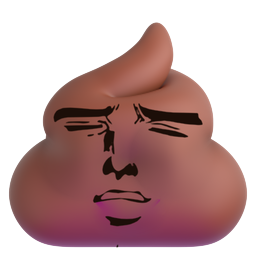
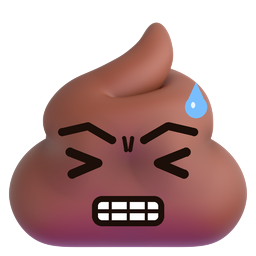
feat: versión para Google Play, borrar cuenta y política de privacidad
- Flavor play sin el actualizador propio ni los permisos de instalar.
- Perfil > Borrar mi cuenta (RPC borrar_mi_cuenta; todo se borra en cascada).
- docs/: política de privacidad y página para borrar la cuenta (GitHub Pages).
- Cara de esfuerzo dibujada desde cero para el mojón de la pregunta secreta.

Changed region(s): [[0.1875, 0.3125, 0.8125, 0.9062]]

diff --git a/docs/privacidad.html b/docs/privacidad.html
@@ -1,0 +1,38 @@
+<!doctype html>
+<html lang="es"><head><meta charset="utf-8"><meta name="viewport" content="width=device-width, initial-scale=1">
+<title>Privacidad · Rey Cagón</title><link rel="stylesheet" href="estilo.css"></head>
+<body><main>
+<h1>Política de privacidad</h1>
+<div class="fecha">Rey Cagón · ahimismito Studios C.A · Última actualización: 20 de octubre de 2026</div>
+
+<p>Rey Cagón es una app de entretenimiento para competir con amigos. No es una app de salud y nada de lo que registras es información médica.</p>
+
+<h2>Qué guardamos</h2>
+<ul>
+<li><strong>Tu correo y tu contraseña</strong>, para entrar a tu cuenta. La contraseña se guarda cifrada.</li>
+<li><strong>Tu perfil</strong>: username, bio, avatar y accesorios.</li>
+<li><strong>Tus registros</strong>: la hora de cada vez que tocas CAGUÉ y, si los eliges, el tipo y la calificación.</li>
+<li><strong>A quién sigues</strong> y quién te sigue.</li>
+<li><strong>Un identificador de notificaciones</strong> de tu teléfono y la versión de la app, para mandarte avisos.</li>
+</ul>
+
+<h2>Quién lo ve</h2>
+<p>Las personas que usan la app ven tu username, tu avatar, tus totales y tu calendario. Las calificaciones solo las ven quienes desbloquearon esa sección. Tu correo no lo ve nadie.</p>
+
+<h2>Con quién lo compartimos</h2>
+<p>Con nadie para publicidad ni para venderlo. Usamos dos servicios para que la app funcione:</p>
+<ul>
+<li><strong>Supabase</strong>, donde están la base de datos y las cuentas.</li>
+<li><strong>Firebase Cloud Messaging</strong> (Google), que entrega las notificaciones.</li>
+</ul>
+<p>La app no usa anuncios, no te rastrea en otras apps y no pide tu ubicación, contactos, cámara ni micrófono.</p>
+
+<h2>Cómo borrar tus datos</h2>
+<p>En la app: <strong>Perfil → Borrar mi cuenta</strong>. Se borran tu cuenta, tu perfil, tus registros, tus follows y tus notificaciones, de inmediato y para siempre. Más detalles en <a href="borrar-cuenta.html">Borrar tu cuenta</a>.</p>
+
+<h2>Menores</h2>
+<p>La app no está dirigida a menores de 13 años.</p>
+
+<h2>Contacto</h2>
+<p>Escríbenos abriendo un reporte en <a href="https://github.com/Fervolts/rey-cagon/issues">github.com/Fervolts/rey-cagon/issues</a>.</p>
+</main></body></html>

diff --git a/lib/perfil.dart b/lib/perfil.dart
@@ -95,6 +95,35 @@ class _PantallaPerfilState extends State<PantallaPerfil> {
     if (mounted) Navigator.of(context).popUntil((r) => r.isFirst);
   }
 
+  /// Borra la cuenta y todo lo suyo (cagadas, follows, teléfonos) después de confirmar.
+  Future<void> _borrarCuenta() async {
+    final seguro = await showDialog<bool>(
+      context: context,
+      builder: (context) => AlertDialog(
+        title: const Text('¿Borrar tu cuenta?'),
+        content: const Text('Se borran tu perfil, todas tus cagadas y tus seguidores. No se puede deshacer.'),
+        actions: [
+          TextButton(onPressed: () => Navigator.pop(context, false), child: const Text('CANCELAR')),
+          FilledButton(
+            style: FilledButton.styleFrom(backgroundColor: const Color(0xFFB3261E), foregroundColor: Colors.white),
+            onPressed: () => Navigator.pop(context, true),
+            child: const Text('BORRAR'),
+          ),
+        ],
+      ),
+    );
+    if (seguro != true) return;
+    try {
+      cancelarRecordatorio().catchError((_) {});
+      limpiarWidget().catchError((_) {});
+      await db.rpc('borrar_mi_cuenta');
+      await db.auth.signOut().catchError((_) {});
+      if (mounted) Navigator.of(context).popUntil((r) => r.isFirst);
+    } catch (e) {
+      _mensaje('No se pudo borrar la cuenta: $e');
+    }
+  }
+
   @override
   Widget build(BuildContext context) {
     final p = _p;
@@ -212,6 +241,12 @@ class _PantallaPerfilState extends State<PantallaPerfil> {
                     ),
                   ),
                 ),
+                if (_esMio)
+                  ListTile(
+                    leading: const Icon(Icons.delete_forever, color: Color(0xFFB3261E)),
+                    title: const Text('Borrar mi cuenta', style: TextStyle(color: Color(0xFFB3261E))),
+                    onTap: _borrarCuenta,
+                  ),
               ],
             ),
     );

diff --git a/docs/borrar-cuenta.html b/docs/borrar-cuenta.html
@@ -1,0 +1,22 @@
+<!doctype html>
+<html lang="es"><head><meta charset="utf-8"><meta name="viewport" content="width=device-width, initial-scale=1">
+<title>Borrar tu cuenta · Rey Cagón</title><link rel="stylesheet" href="estilo.css"></head>
+<body><main>
+<h1>Borrar tu cuenta de Rey Cagón</h1>
+<div class="fecha">ahimismito Studios C.A</div>
+
+<h2>Desde la app</h2>
+<div class="caja">
+<ol>
+<li>Abre Rey Cagón y entra a la pestaña <strong>Perfil</strong>.</li>
+<li>Baja hasta el final y toca <strong>Borrar mi cuenta</strong>.</li>
+<li>Confirma con <strong>Borrar</strong>.</li>
+</ol>
+</div>
+
+<h2>Si ya no tienes la app</h2>
+<p>Abre un reporte en <a href="https://github.com/Fervolts/rey-cagon/issues/new?title=Borrar%20mi%20cuenta">github.com/Fervolts/rey-cagon/issues</a> con tu username (no pongas tu correo ni tu contraseña). Te pediremos confirmar desde la app o el correo de la cuenta y la borramos en menos de 7 días.</p>
+
+<h2>Qué se borra</h2>
+<p>Todo, de inmediato y sin copia: tu cuenta y correo, tu perfil y avatar, todos tus registros y calificaciones, tus follows y los identificadores de notificaciones de tus teléfonos. No guardamos nada después.</p>
+</main></body></html>

diff --git a/docs/estilo.css b/docs/estilo.css
@@ -1,0 +1,10 @@
+:root { --papel: #F7F6F3; --tinta: #171513; --suave: #5C5751; --borde: #DEDBD5; --acento: #FFD60A; }
+* { box-sizing: border-box; }
+body { margin: 0; background: var(--papel); color: var(--tinta); font: 17px/1.6 system-ui, -apple-system, "Segoe UI", Roboto, sans-serif; }
+main { max-width: 720px; margin: 0 auto; padding: 40px 16px 64px; }
+h1 { font-size: 32px; line-height: 1.1; margin: 0 0 8px; }
+h2 { font-size: 20px; margin: 32px 0 8px; border-left: 4px solid var(--acento); padding-left: 10px; }
+p, li { color: var(--suave); }
+a { color: var(--tinta); }
+.fecha { font-size: 14px; color: var(--suave); margin-bottom: 24px; }
+.caja { background: #fff; border: 1px solid var(--borde); border-radius: 2px; padding: 16px 20px; }

diff --git a/lib/actualizar.dart b/lib/actualizar.dart
@@ -13,9 +13,13 @@ const _manifiesto = '$supabaseUrl/storage/v1/object/public/releases/version.json
 var _abierto = false;
 int? _pospuesta;
 
+/// La versión de Play se compila con --dart-define=CANAL=play: ahí las actualizaciones llegan por la tienda.
+const esDePlay = String.fromEnvironment('CANAL') == 'play';
+
 /// Al abrir la app y al volver a ella: si hay una versión con build mayor que la instalada,
 /// ofrece bajarla e instalarla. "Después" la calla hasta el próximo arranque.
 Future<void> revisarActualizacion(BuildContext context) async {
+  if (esDePlay) return;
   if (_abierto) return;
   _abierto = true;
   try {

diff --git a/docs/index.html b/docs/index.html
@@ -1,0 +1,12 @@
+<!doctype html>
+<html lang="es"><head><meta charset="utf-8"><meta name="viewport" content="width=device-width, initial-scale=1">
+<title>Rey Cagón</title><link rel="stylesheet" href="estilo.css"></head>
+<body><main>
+<h1>Rey Cagón 👑💩</h1>
+<p>Compite con tus amigos por quién caga más. Solo entretenimiento.</p>
+<ul>
+<li><a href="privacidad.html">Política de privacidad</a></li>
+<li><a href="borrar-cuenta.html">Borrar tu cuenta</a></li>
+<li><a href="https://github.com/Fervolts/rey-cagon">Código fuente</a></li>
+</ul>
+</main></body></html>
